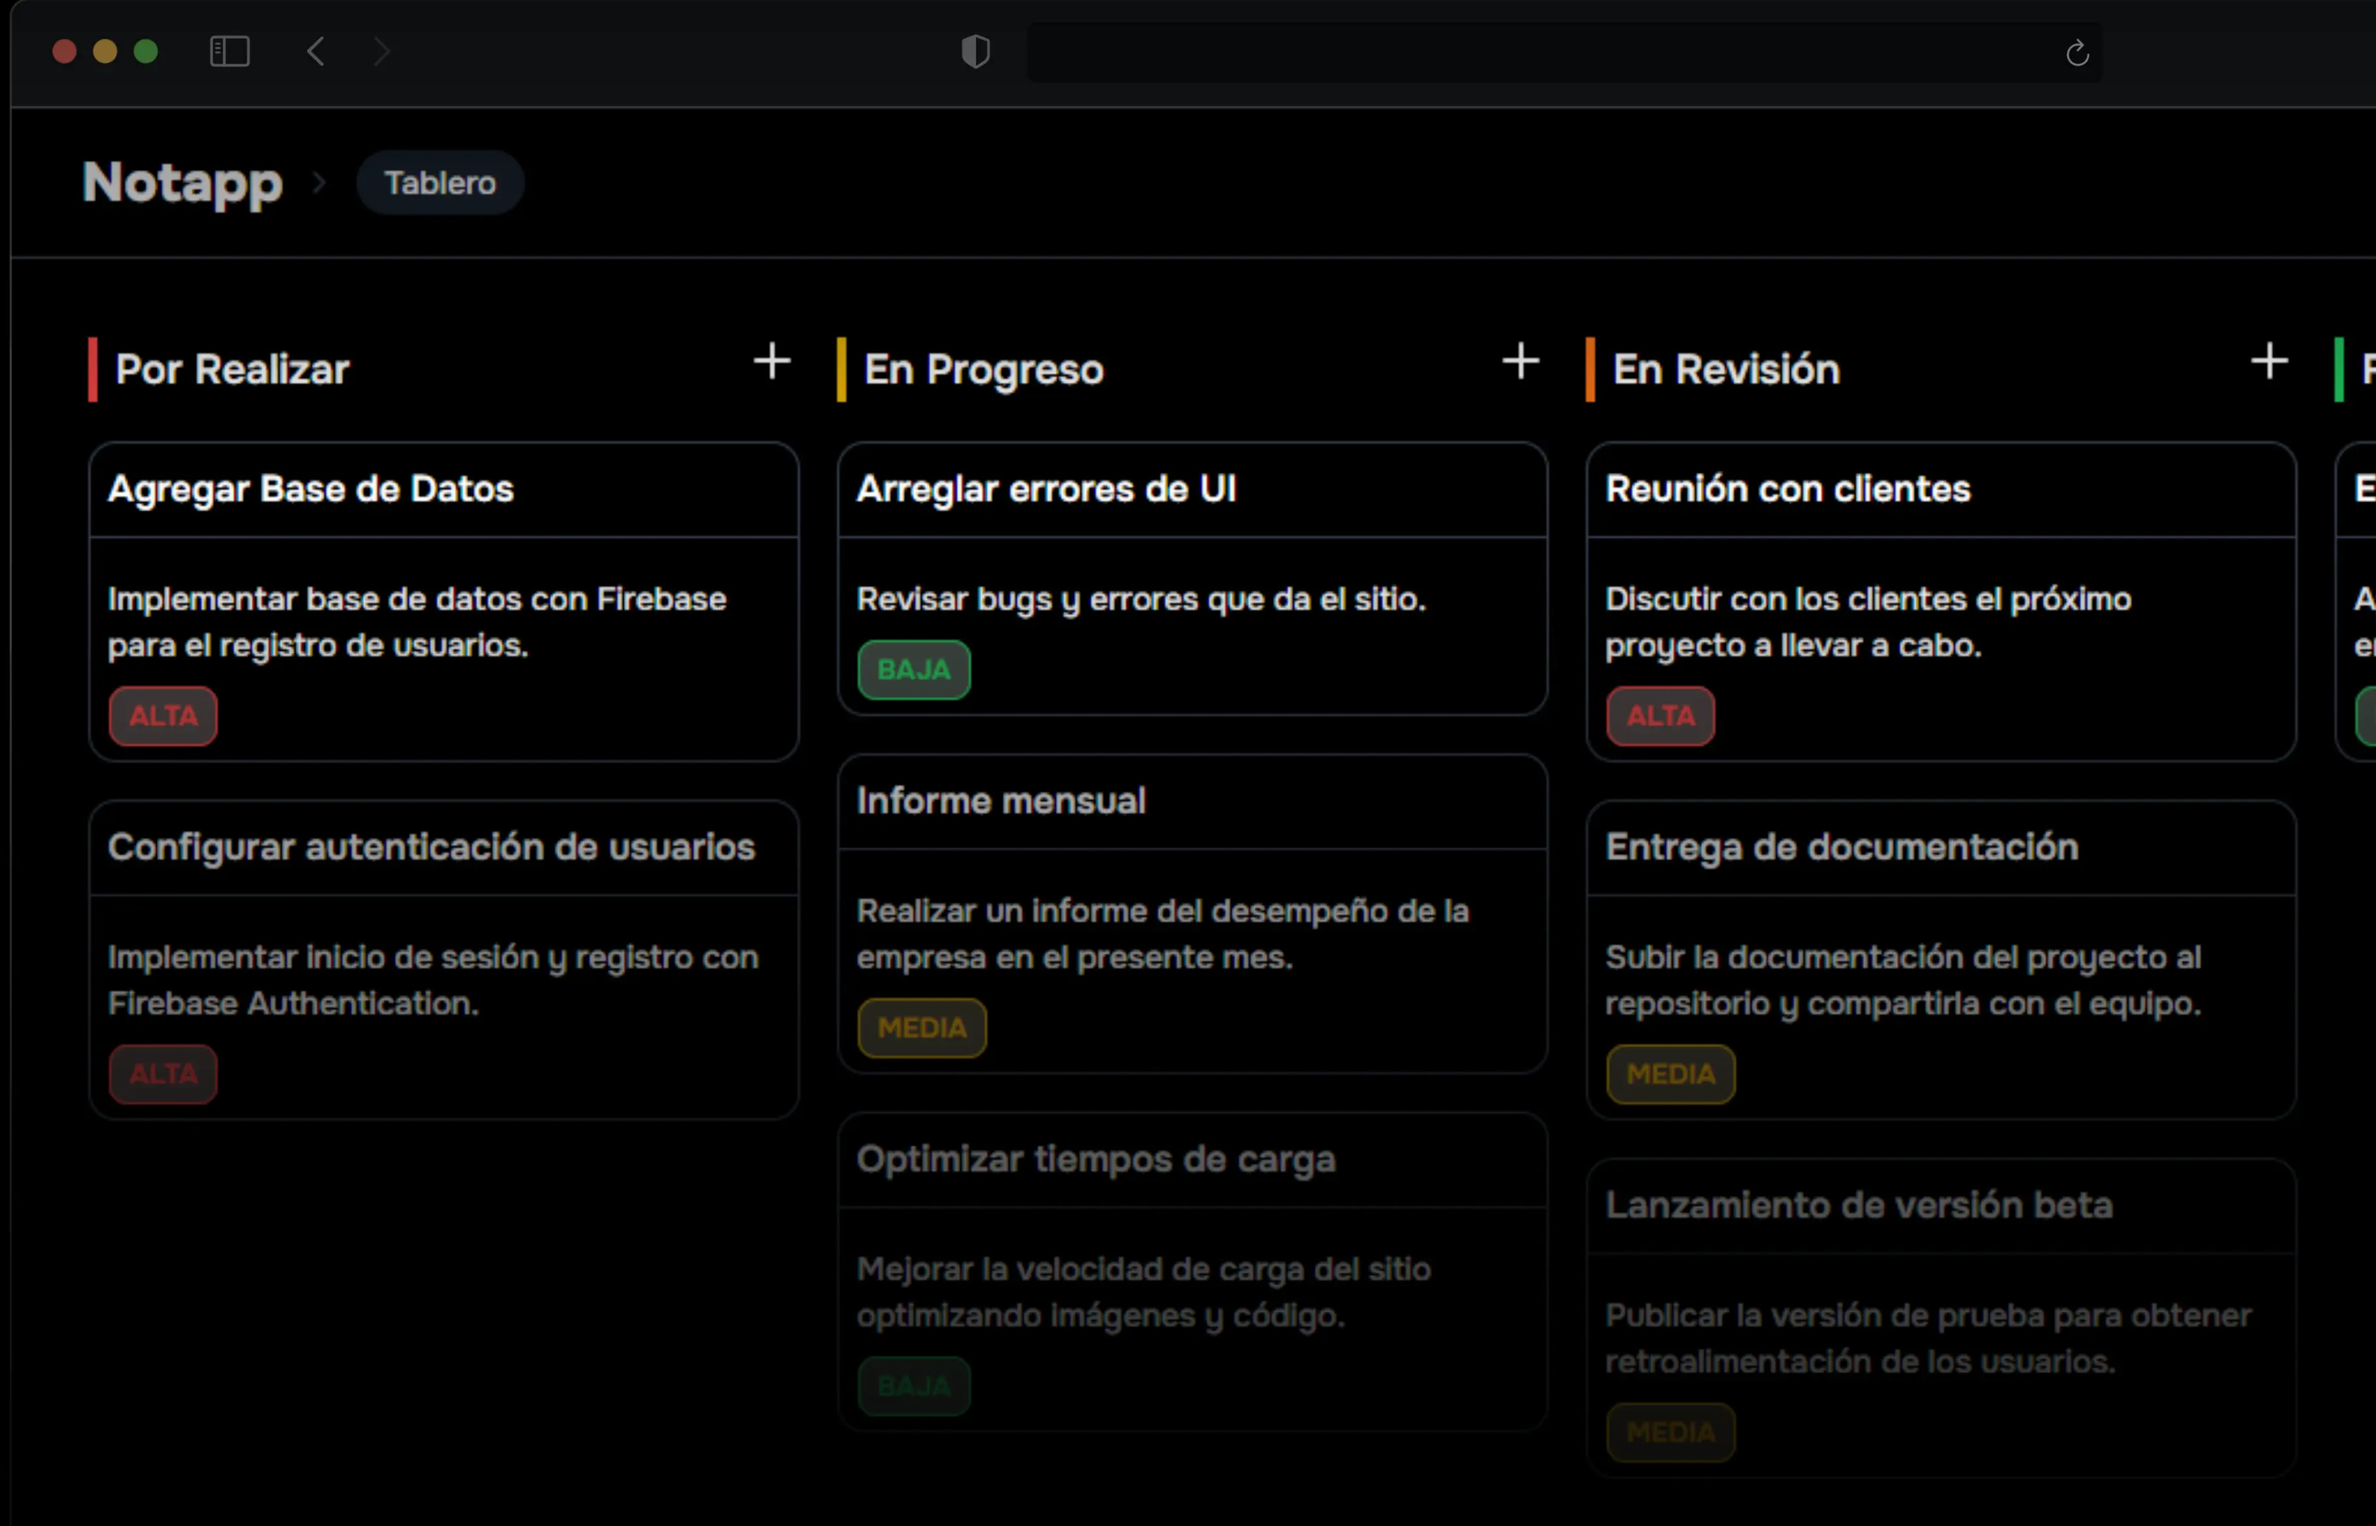
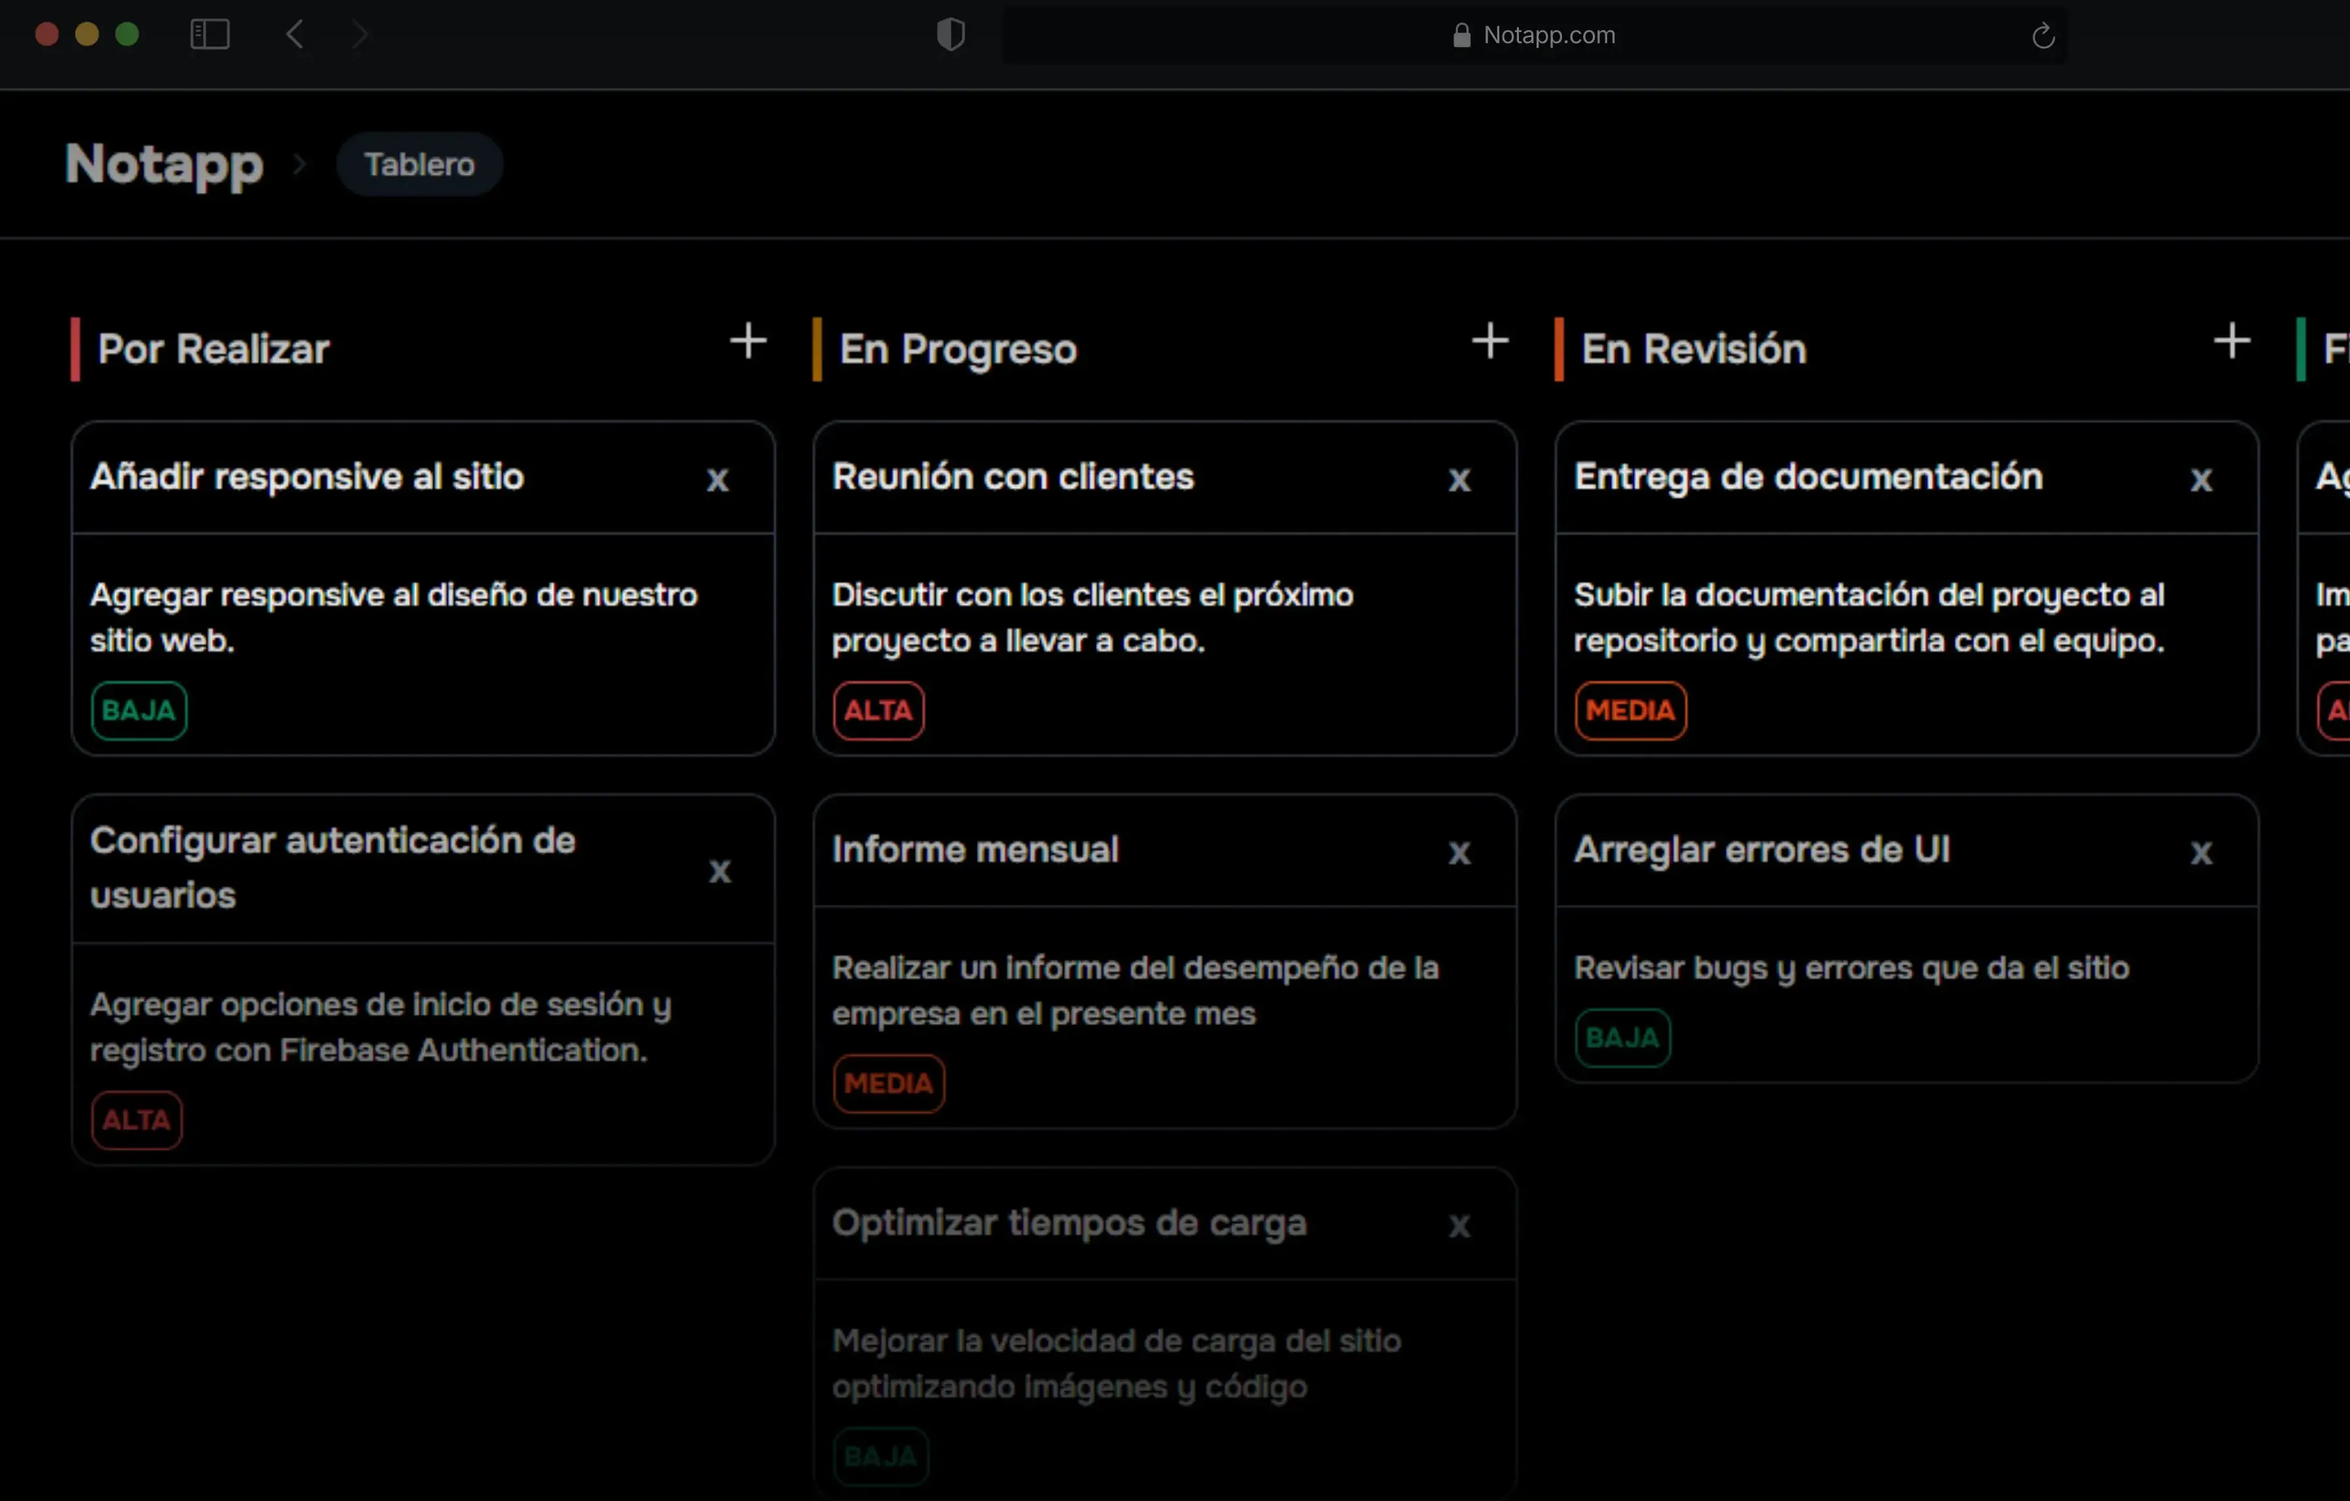
Fix: board screen

diff --git a/src/scripts/addTaskCard.js b/src/scripts/addTaskCard.js
@@ -9,7 +9,7 @@ function insertTaskIntoColumn(task) {
     taskElement.setAttribute("draggable", "true");
     taskElement.id = task.id;
 
-    const priorityColor = task.priority === "ALTA" ? "red" : task.priority === "MEDIA" ? "yellow" : "green";
+    const priorityColor = task.priority === "ALTA" ? "red" : task.priority === "MEDIA" ? "orange" : "green";
     taskElement.innerHTML = `
         <div class="w-full flex flex-col space-y-2">
             <div class="flex justify-between items-center border-b border-gray-700 p-2">
